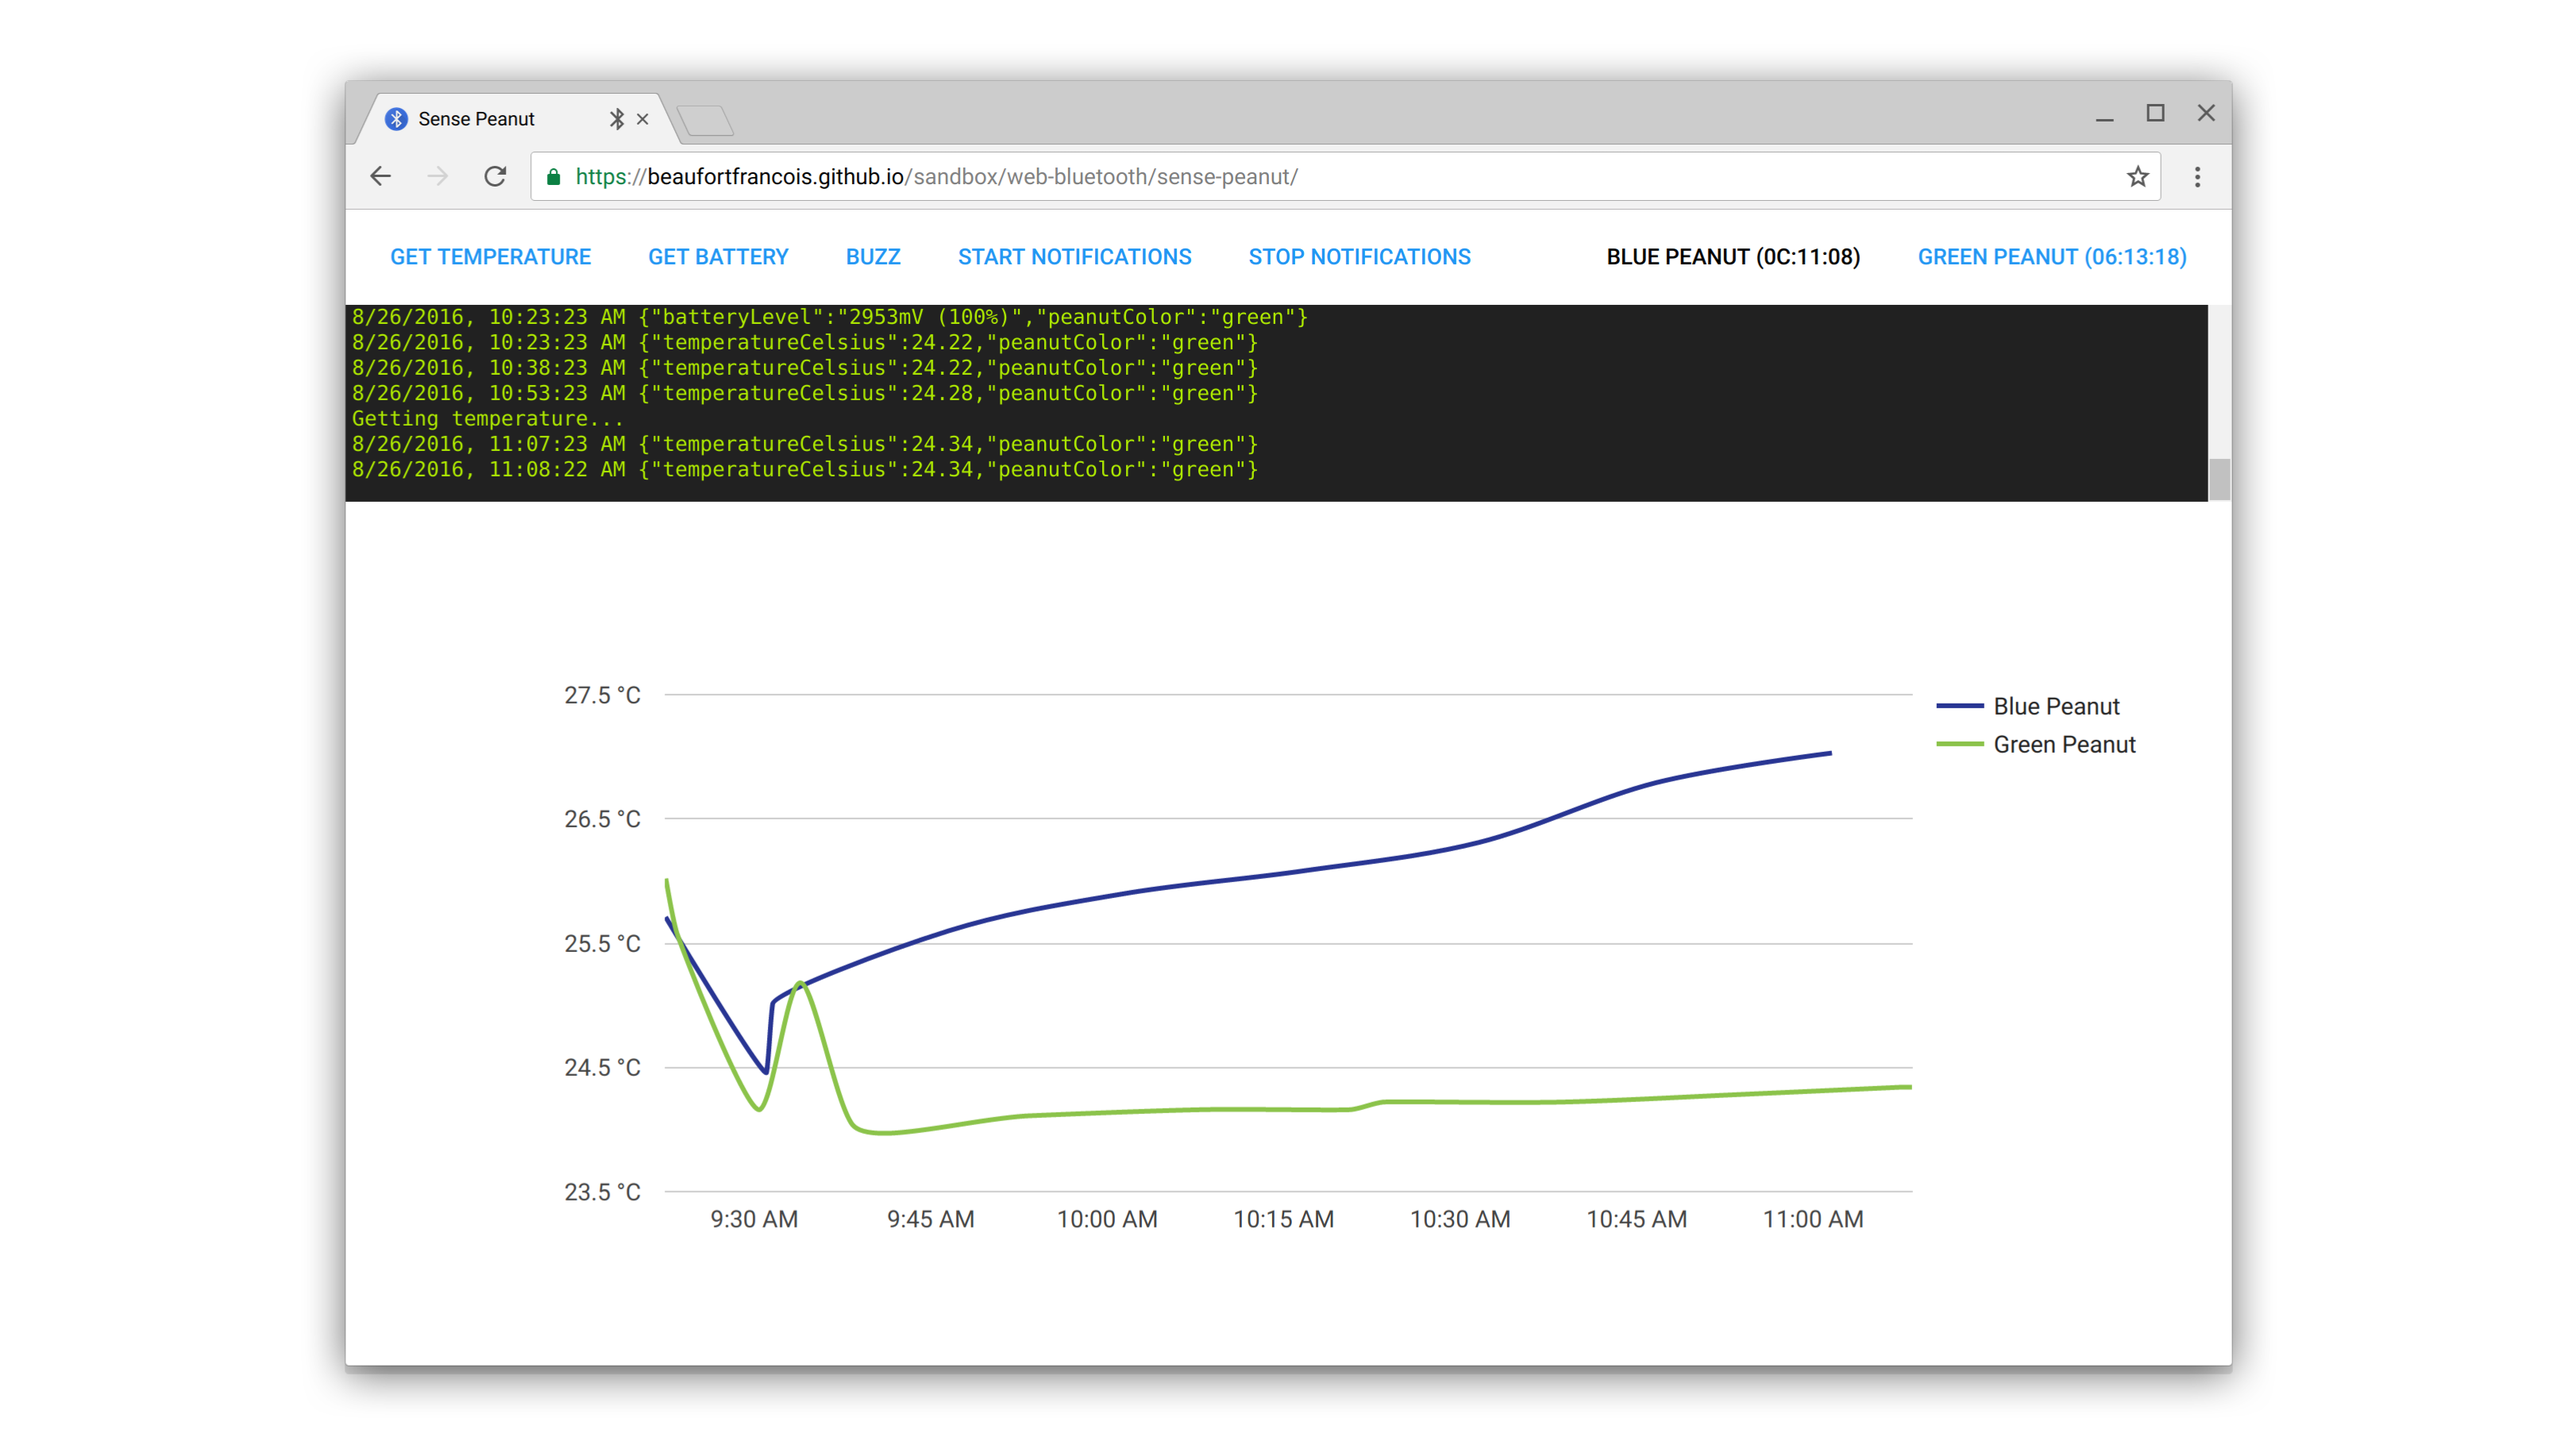
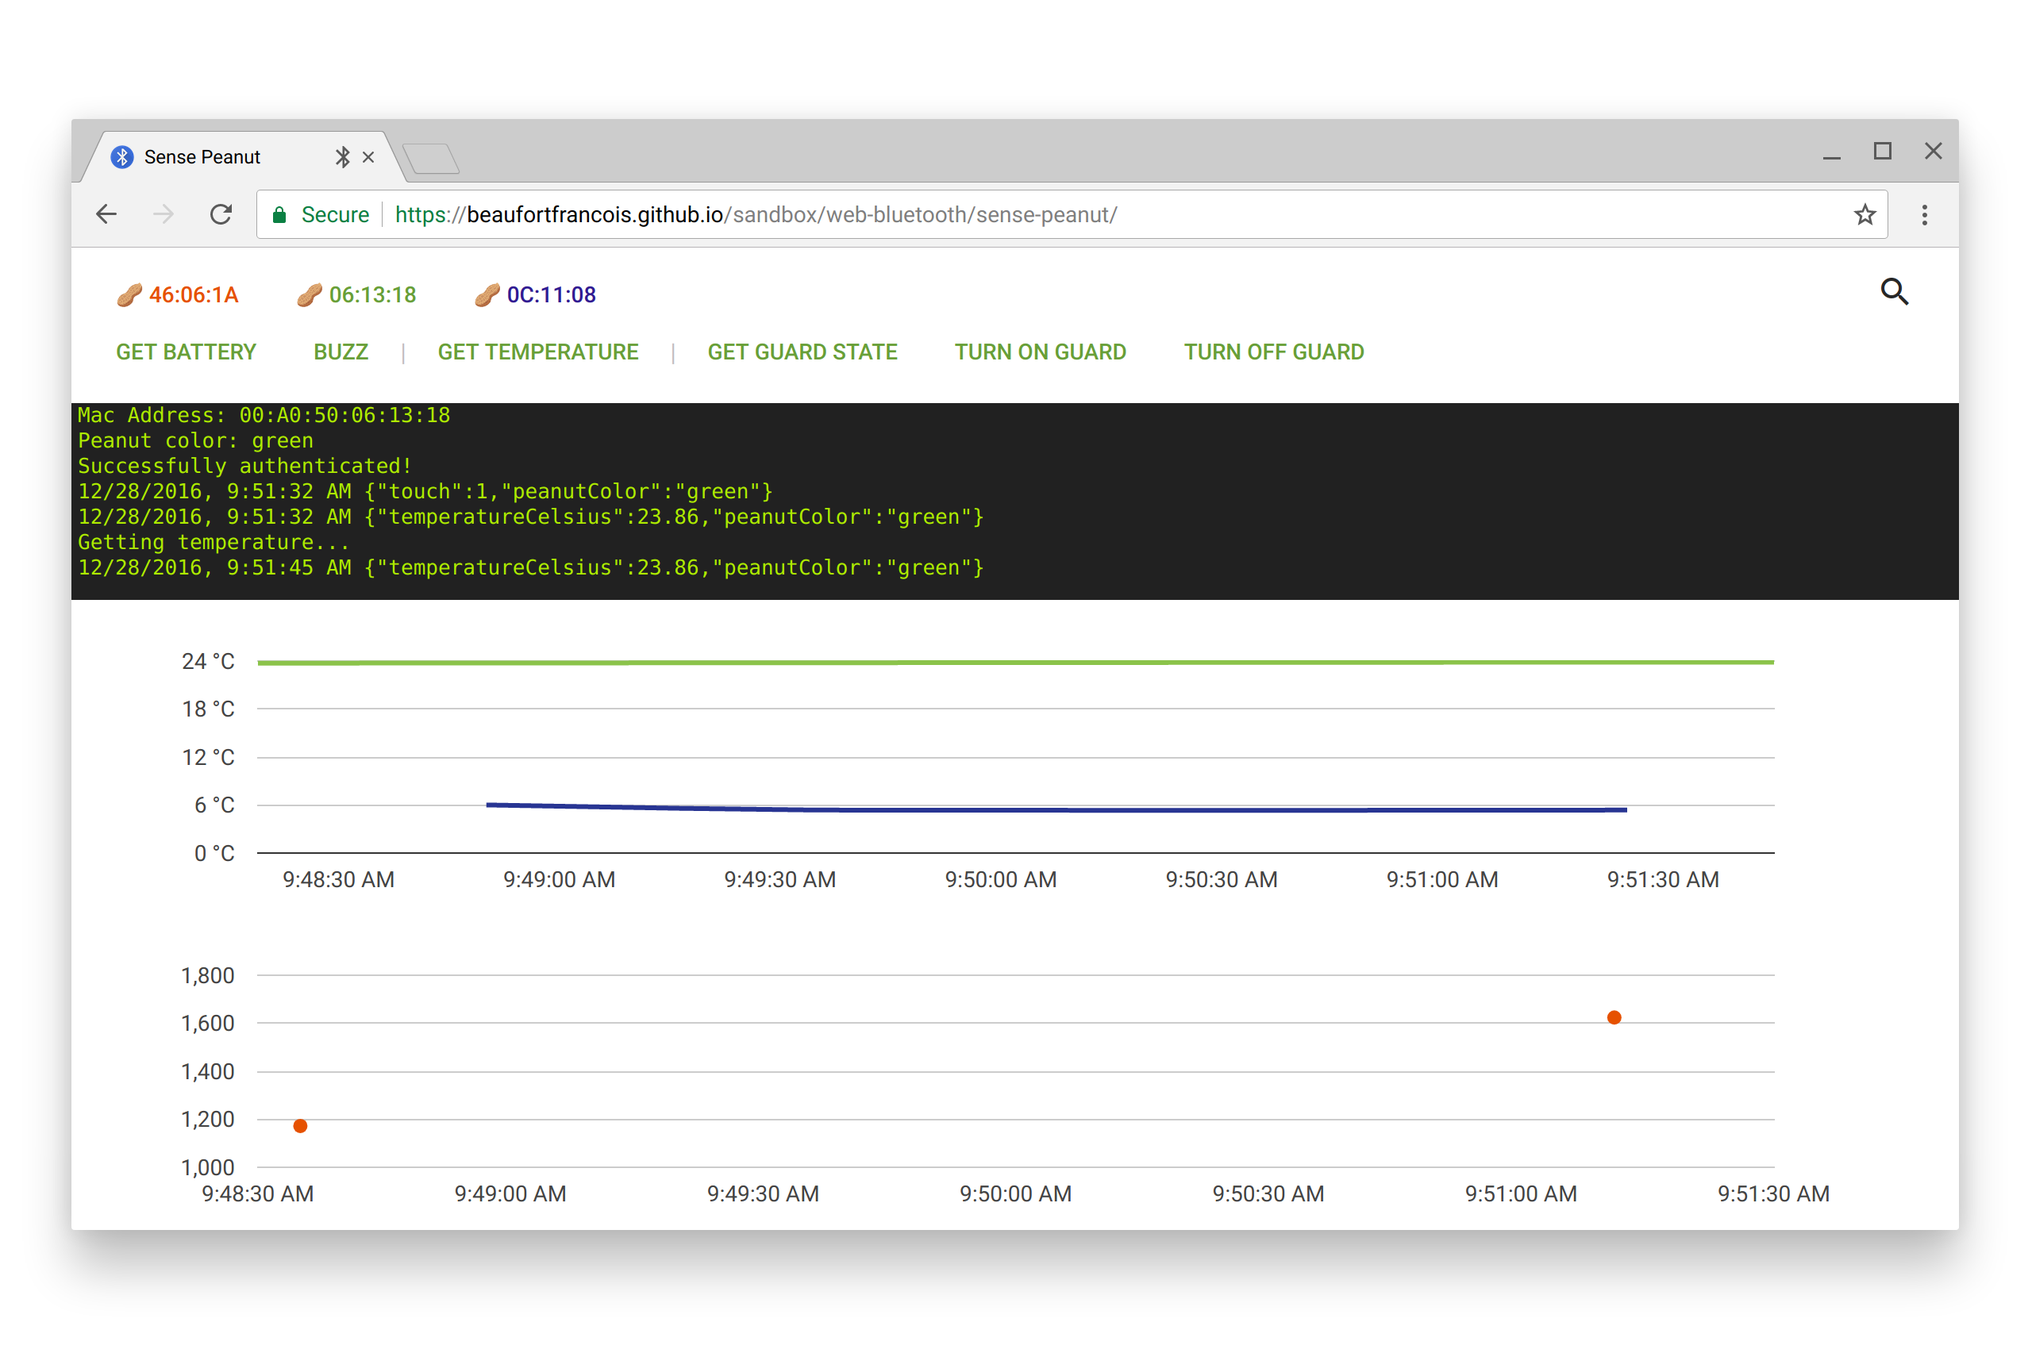
Update assets and README

diff --git a/web-bluetooth/sense-peanut/README.md b/web-bluetooth/sense-peanut/README.md
@@ -1,7 +1,6 @@
 # Sen.se Peanut Web App
 
-A simple web app using the Web Bluetooth API to interact with my blue and green peanuts and
-store locally their temperature.
+A simple web app using the Web Bluetooth API to interact with my ThermoPeanuts and GuardPeanuts.
 
 https://beaufortfrancois.github.io/sandbox/web-bluetooth/sense-peanut/
 
